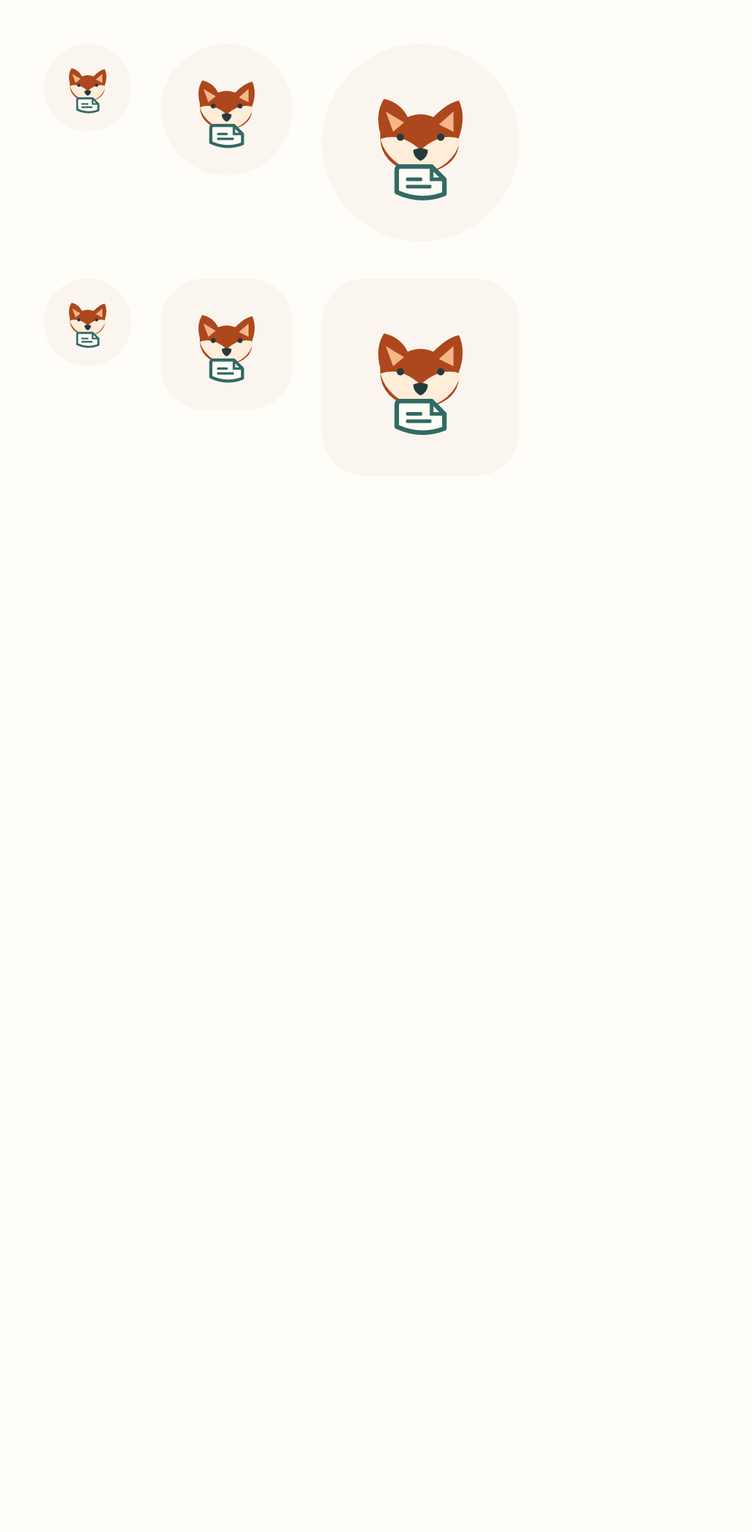
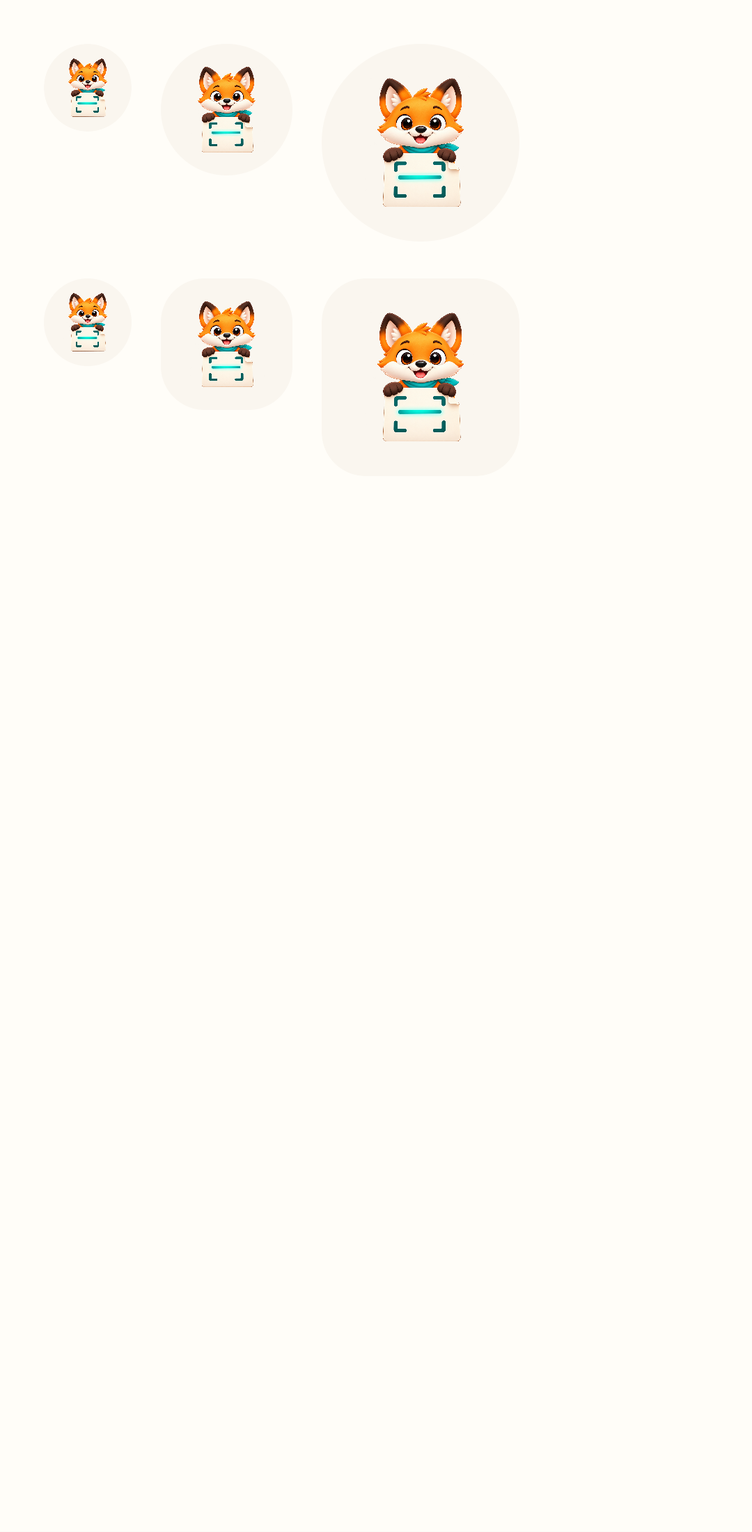
feat(onboarding): integrate fox with paper scene

diff --git a/app/src/main/java/com/soturine/replicascan/onboarding/OnboardingScreen.kt b/app/src/main/java/com/soturine/replicascan/onboarding/OnboardingScreen.kt
@@ -1,5 +1,8 @@
 package com.soturine.replicascan.onboarding
 
+import androidx.compose.foundation.Canvas
+import androidx.compose.foundation.background
+import androidx.compose.foundation.border
 import androidx.compose.foundation.layout.*
 import androidx.compose.foundation.pager.HorizontalPager
 import androidx.compose.foundation.pager.rememberPagerState
@@ -11,6 +14,13 @@ import androidx.compose.material3.*
 import androidx.compose.runtime.*
 import androidx.compose.ui.Alignment
 import androidx.compose.ui.Modifier
+import androidx.compose.ui.draw.shadow
+import androidx.compose.ui.geometry.Offset
+import androidx.compose.ui.geometry.Size
+import androidx.compose.ui.graphics.graphicsLayer
+import androidx.compose.ui.graphics.luminance
+import androidx.compose.foundation.shape.RoundedCornerShape
+import androidx.compose.ui.platform.LocalDensity
 import androidx.compose.ui.res.stringResource
 import androidx.compose.ui.semantics.heading
 import androidx.compose.ui.semantics.semantics
@@ -28,6 +38,7 @@ fun OnboardingScreen(onFinish: () -> Unit, modifier: Modifier = Modifier) {
     val scenes = listOf(ReplicaScanMascotState.Welcome, ReplicaScanMascotState.Ocr, ReplicaScanMascotState.Success)
     val pager = rememberPagerState(pageCount = { 3 })
     val scope = rememberCoroutineScope()
+    val largeText = LocalDensity.current.fontScale >= 1.6f
     Column(modifier.fillMaxSize().safeDrawingPadding().padding(20.dp), horizontalAlignment = Alignment.CenterHorizontally) {
         Row(Modifier.fillMaxWidth(), verticalAlignment = Alignment.CenterVertically) {
             if (pager.currentPage > 0) {
@@ -39,11 +50,11 @@ fun OnboardingScreen(onFinish: () -> Unit, modifier: Modifier = Modifier) {
             TextButton(onClick = onFinish) { Text(stringResource(R.string.onboarding_skip)) }
         }
         HorizontalPager(pager, modifier = Modifier.weight(1f).fillMaxWidth().testTag("onboarding-pager")) { index ->
-            Column(Modifier.fillMaxSize().verticalScroll(rememberScrollState()).padding(vertical = 24.dp),
-                horizontalAlignment = Alignment.CenterHorizontally, verticalArrangement = Arrangement.spacedBy(24.dp, Alignment.CenterVertically)) {
-                Surface(shape = MaterialTheme.shapes.extraLarge, color = MaterialTheme.colorScheme.surfaceContainer) {
-                    ReplicaScanMascot(scenes[index], size = 220.dp, modifier = Modifier.padding(16.dp), reducedMotion = pager.currentPage != index)
-                }
+            Column(Modifier.fillMaxSize().verticalScroll(rememberScrollState())
+                .padding(top = if (largeText) 12.dp else 40.dp, bottom = 16.dp),
+                horizontalAlignment = Alignment.CenterHorizontally,
+                verticalArrangement = Arrangement.spacedBy(if (largeText) 14.dp else 20.dp)) {
+                OnboardingPaperScene(scenes[index], largeText, pager.currentPage != index)
                 Text(stringResource(titles[index]), style = MaterialTheme.typography.headlineLarge, textAlign = TextAlign.Center,
                     modifier = Modifier.semantics { heading() })
                 Text(stringResource(bodies[index]), style = MaterialTheme.typography.bodyLarge, textAlign = TextAlign.Center,
@@ -59,5 +70,52 @@ fun OnboardingScreen(onFinish: () -> Unit, modifier: Modifier = Modifier) {
         }
         ReplicaScanPrimaryButton(stringResource(if (pager.currentPage == 2) R.string.onboarding_finish else R.string.onboarding_next),
             onClick = { if (pager.currentPage == 2) onFinish() else scope.launch { pager.animateScrollToPage(pager.currentPage + 1) } })
+    }
+}
+
+@Composable
+private fun OnboardingPaperScene(state: ReplicaScanMascotState, compact: Boolean, reducedMotion: Boolean) {
+    val colors = MaterialTheme.colorScheme
+    val dark = colors.background.luminance() < .5f
+    val paper = if (dark) colors.inverseSurface else colors.surface
+    val ink = if (dark) colors.inverseOnSurface else colors.onSurface
+    val size = if (compact) 170.dp else 242.dp
+    val pageShape = RoundedCornerShape(9.dp)
+
+    Box(Modifier.size(size)) {
+        Canvas(Modifier.matchParentSize()) {
+            drawCircle(colors.primaryContainer.copy(alpha = .48f),
+                radius = this.size.width * .43f,
+                center = Offset(this.size.width * .60f, this.size.height * .44f))
+            drawLine(colors.outlineVariant,
+                start = Offset(this.size.width * .10f, this.size.height * .91f),
+                end = Offset(this.size.width * .90f, this.size.height * .91f),
+                strokeWidth = 1.dp.toPx())
+        }
+        Box(
+            Modifier.align(Alignment.CenterStart).offset(x = 14.dp, y = (-9).dp)
+                .size(width = size * .54f, height = size * .70f)
+                .graphicsLayer { rotationZ = -8f }
+                .shadow(9.dp, pageShape)
+                .background(paper, pageShape)
+                .border(1.dp, ink.copy(alpha = .14f), pageShape)
+                .padding(16.dp),
+        ) {
+            Canvas(Modifier.matchParentSize()) {
+                drawRoundRect(colors.secondary.copy(alpha = .5f),
+                    topLeft = Offset(0f, this.size.height * .07f),
+                    size = Size(this.size.width * .46f, 5.dp.toPx()),
+                    cornerRadius = androidx.compose.ui.geometry.CornerRadius(3.dp.toPx()))
+                listOf(.30f, .45f, .60f, .75f).forEach { y ->
+                    drawLine(ink.copy(alpha = .18f),
+                        start = Offset(0f, this.size.height * y),
+                        end = Offset(this.size.width * .82f, this.size.height * y),
+                        strokeWidth = 2.dp.toPx())
+                }
+            }
+        }
+        ReplicaScanMascot(state, size = size * .85f,
+            modifier = Modifier.align(Alignment.BottomEnd).offset(x = 4.dp),
+            reducedMotion = reducedMotion)
     }
 }

diff --git a/docs/design/visual-recovery/icon-candidates/index.html b/docs/design/visual-recovery/icon-candidates/index.html
@@ -20,10 +20,10 @@
 </head>
 <body>
   <h1>Ícones em avaliação</h1>
-  <p>Quatro alternativas inspiradas na raposa aprovada, com exatamente duas patas dianteiras visíveis. A opção 4 segue a direção escolhida: composição entre 2 e 3 com sinal de escaneamento. O APK debug com essa opção foi instalado no emulador Android API 34 e capturado no launcher. A primeira linha da prancha 4 usa o recurso adaptativo real em 24, 48, 72 e 108 dp; as demais máscaras são prévias desenhadas no Android. A versão temática usa o vetor do app com cores simuladas. O ícone ainda aguarda aceite final e não foi publicado em release.</p>
+  <p>Quatro alternativas inspiradas na raposa aprovada, com exatamente duas patas dianteiras visíveis. O proprietário escolheu a opção 4 como candidata final: composição entre 2 e 3 com sinal de escaneamento. O APK debug com essa opção foi instalado no emulador Android API 34 e capturado no launcher. A primeira linha da prancha 4 usa o recurso adaptativo real em 24, 48, 72 e 108 dp; as demais máscaras são prévias desenhadas no Android. A versão temática usa o vetor do app com cores simuladas. O conjunto visual e a release ainda aguardam aprovação.</p>
   <p><a href="launcher-installed.png">Ver captura do ícone instalado no launcher</a> · <a href="launcher-masks.png">Ver máscaras do recurso instalado</a></p>
   <div class="grid">
-    <article><h2>4 · Raposa + documento escaneando</h2><p>Rosto da 2, folha entre 2 e 3, cantos de enquadramento e linha de leitura. A direção foi escolhida para refinamento; confira o recurso instalado em 24 dp e a versão temática.</p><a href="candidate-4-android.png"><img src="candidate-4-android.png" alt="Opção 4 instalada em tamanhos Android, máscaras e ícone temático"></a><small><a href="candidate-4.png">Arte original transparente</a></small></article>
+    <article><h2>4 · Raposa + documento escaneando</h2><p>Rosto da 2, folha entre 2 e 3, cantos de enquadramento e linha de leitura. Candidata final escolhida; confira o recurso instalado em 24 dp e a versão temática.</p><a href="candidate-4-android.png"><img src="candidate-4-android.png" alt="Opção 4 instalada em tamanhos Android, máscaras e ícone temático"></a><small><a href="candidate-4.png">Arte original transparente</a></small></article>
     <article><h2>1 · Rosto + traço terracota</h2><p>Rosto mais expressivo, papel curto e marca de leitura discreta. Melhor leitura inicial em 24 dp.</p><a href="candidate-1-android.png"><img src="candidate-1-android.png" alt="Candidata 1 em tamanhos pequenos, máscaras e ícone temático no Android"></a><small><a href="candidate-1.png">Arte original transparente</a></small></article>
     <article><h2>2 · Rosto + traço petróleo</h2><p>Composição parecida, com documento um pouco mais evidente e detalhe na cor do lenço.</p><a href="candidate-2-android.png"><img src="candidate-2-android.png" alt="Candidata 2 em tamanhos pequenos, máscaras e ícone temático no Android"></a><small><a href="candidate-2.png">Arte original transparente</a></small></article>
     <article><h2>3 · Folha protagonista</h2><p>Mais documento, mas a expressão da raposa perde força em 24 dp.</p><a href="candidate-3-android.png"><img src="candidate-3-android.png" alt="Candidata 3 em tamanhos pequenos, máscaras e ícone temático no Android"></a><small><a href="candidate-3.png">Arte original transparente</a></small></article>

diff --git a/docs/design/visual-recovery/evidence/review.html b/docs/design/visual-recovery/evidence/review.html
@@ -35,7 +35,7 @@
   <section id="export"><h2>Opções de exportação</h2><div class="pair"><figure><figcaption>Anterior</figcaption><img src="../../evidence/export.png" alt="Opções anteriores"></figure><figure><figcaption>Atual</figcaption><img src="export.png" alt="Opções atuais"></figure></div></section>
   <section id="progress"><h2>Exportação em andamento</h2><div class="pair"><figure><figcaption>Anterior</figcaption><img src="../../evidence/export-progress.png" alt="Progresso anterior"></figure><figure><figcaption>Atual</figcaption><img src="export-progress.png" alt="Progresso atual com prévia e raposa trabalhando"></figure></div></section>
   <section id="success"><h2>Exportação concluída</h2><div class="pair"><figure><figcaption>Anterior</figcaption><img src="../../evidence/export-success.png" alt="Sucesso anterior"></figure><figure><figcaption>Atual</figcaption><img src="export-success.png" alt="Sucesso atual"></figure></div></section>
-  <section id="onboarding"><h2>Introdução</h2><div class="pair"><figure><figcaption>Anterior</figcaption><img src="../../evidence/onboarding.png" alt="Introdução anterior"></figure><figure><figcaption>Atual</figcaption><img src="onboarding.png" alt="Introdução atual com raposa aprovada"></figure></div></section>
+  <section id="onboarding"><h2>Introdução</h2><div class="pair"><figure><figcaption>Anterior</figcaption><img src="../../evidence/onboarding.png" alt="Introdução anterior"></figure><figure><figcaption>Atual · escanear</figcaption><img src="onboarding.png" alt="Introdução atual com raposa e folha integradas"></figure><figure><figcaption>Atual · revisar</figcaption><img src="onboarding-two.png" alt="Segunda página da introdução"></figure><figure><figcaption>Atual · guardar</figcaption><img src="onboarding-three.png" alt="Terceira página da introdução"></figure><figure><figcaption>Atual · fonte 200%</figcaption><img src="onboarding-200.png" alt="Primeira página da introdução com fonte ampliada a 200%"></figure></div></section>
   <section id="ocr"><h2>OCR em andamento</h2><div class="pair"><figure><figcaption>Anterior</figcaption><img src="../../evidence/ocr-loading.png" alt="OCR anterior"></figure><figure><figcaption>Atual</figcaption><img src="ocr-loading.png" alt="OCR atual"></figure></div></section>
   <section id="history"><h2>Histórico</h2><div class="pair"><figure><figcaption>Anterior</figcaption><img src="../../evidence/history.png" alt="Histórico anterior"></figure><figure><figcaption>Atual</figcaption><img src="history.png" alt="Histórico atual"></figure></div></section>
   <section id="settings"><h2>Configurações</h2><div class="pair"><figure><figcaption>Anterior</figcaption><img src="../../evidence/settings.png" alt="Configurações anteriores"></figure><figure><figcaption>Atual</figcaption><img src="settings.png" alt="Configurações atuais"></figure></div></section>

diff --git a/app/src/androidTest/java/com/soturine/replicascan/RebrandVisualTest.kt b/app/src/androidTest/java/com/soturine/replicascan/RebrandVisualTest.kt
@@ -122,6 +122,8 @@ class RebrandVisualTest {
         rule.onNodeWithText(context.getString(com.soturine.replicascan.feature.settings.R.string.settings_language)).performClick()
         capture("language")
         rule.onNodeWithText(context.getString(android.R.string.cancel)).performClick()
+        rule.runOnIdle { screen = "onboarding"; large = true }
+        capture("onboarding-200")
         rule.runOnIdle { screen = "home-recent"; dark = true }
         capture("home-dark")
         rule.runOnIdle { large = true }

diff --git a/app/src/main/java/com/soturine/replicascan/splash/SplashScreen.kt b/app/src/main/java/com/soturine/replicascan/splash/SplashScreen.kt
@@ -32,7 +32,7 @@ fun SplashScreen(
             verticalArrangement = Arrangement.spacedBy(12.dp),
         ) {
             Image(
-                painter = painterResource(id = R.drawable.ic_launcher_foreground),
+                painter = painterResource(id = R.drawable.ic_launcher_fox_scan),
                 contentDescription = null,
                 modifier = Modifier.size(112.dp),
             )

diff --git a/docs/design/visual-recovery/SCREEN_REVIEW.md b/docs/design/visual-recovery/SCREEN_REVIEW.md
@@ -10,14 +10,14 @@ automaticamente todas as telas, o movimento ou a release.
 | Destino/estado | Observação e decisão | Estado |
 |---|---|---|
 | Home com recentes e vazia | Cena nativa de papel e raposa e CTA Escanear de 68 dp. Em fonte 200%, a cena sai para preservar conteúdo e ações. Espaço inferior com poucos itens continua natural ao conteúdo. | Implementado; capturas API 34 claras, escuras e 200%; aceite pendente |
-| Onboarding (3 páginas) | Saudação, leitura e sucesso agora acompanham escanear, revisar e guardar; antes, as duas primeiras páginas repetiam a pose de trabalho. A sequência ainda precisa de inspeção física de swipe/RTL. | Implementado; cinco testes Android focados passaram com a matriz visual; aceite pendente |
+| Onboarding (3 páginas) | Saudação, leitura e sucesso acompanham escanear, revisar e guardar em uma cena de folha e raposa sem cartão isolado; a composição compacta preserva título, corpo e botão com fonte 200%. A sequência ainda precisa de inspeção física de swipe/RTL. | Capturas Android das três páginas e 200%; aceite pendente |
 | Revisão, crop e filtros | Review/Crop/filtros dão luz e profundidade à mesma página nativa. O recorte mantém quatro cantos e página inteira por padrão; controles, gesto e geometria não foram movidos. | Capturados em claro; Review também em escuro/RTL/fonte 200%; QA físico pendente |
 | OCR carregando, pronto e vazio | Parágrafos ficam em uma folha selecionável, com cópia e idioma preservados. Carregamento e vazio mantêm a raposa; estados de modelo e seleção precisam inspeção com OCR real e TalkBack. | Capturado com estado injetado; fluxo real pendente |
 | Exportação: PDF/JPG/PNG | Prévia, quantidade de páginas e formato atual agora formam uma superfície única; nome, qualidade e tamanho continuam editáveis e progressivos. Estado escuro com fonte 200% exige rolagem para opções inferiores. | Implementado; capturas API 34; aceite pendente |
 | Exportação: progresso, sucesso, erro | A mesma folha real e a raposa acompanham preparo, gravação, sucesso e recuperação, com pose articulada conforme o estado. Sucesso identifica o arquivo e erro preserva opções de nova tentativa. | Capturado com estado injetado; exportação real/aceite pendentes |
 | Histórico, busca, detalhe | Uma biblioteca com só um item deixa espaço livre. Detalhe amplia a página única e mantém a grade em lotes; exportar, editar, favorito, excluir e abrir OCR preservados. Busca e ações documentais devem ser exercitadas em aparelho. | Detalhe recapturado; interação pendente |
 | Configurações, idioma, sobre | Grupos em fundo contínuo e divisórias leves tiram o aspecto de cartões repetidos. Opções e alvos de toque preservados. Validar todos os idiomas, RTL e fonte ampliada. | Configurações recapturadas; revisão linguística/QA pendentes |
-| Ícone adaptativo | A opção 4 equilibra rosto e folha com cantos e linha de escaneamento. Foreground adaptativo e vetor temático foram instalados no APK debug; capturas do launcher e de 24–108 dp estão em `icon-candidates/`. | Direção escolhida para refinamento; aceite final e teste físico pendentes |
+| Ícone adaptativo | A opção 4 equilibra rosto e folha com cantos e linha de escaneamento. Foreground adaptativo e vetor temático foram instalados no APK debug; capturas do launcher e de 24–108 dp estão em `icon-candidates/`. | Proprietário escolheu manter como candidato final; teste físico e aceite do conjunto pendentes |
 | Site | Capturas de Home e opções de exportação atualizadas. | Implementado; gate local do site passou, publicação remota pendente |
 
 As POCs Pipa/Lume informam hierarquia e ritmo, sem fornecer código ou assets de

diff --git a/docs/design/visual-recovery/VALIDATION_MATRIX.md b/docs/design/visual-recovery/VALIDATION_MATRIX.md
@@ -4,8 +4,8 @@
 |---|---|---|---|---|---|
 | Direção e master da raposa | original v0.4.0 e master editado, com seis poses derivadas | personagem consistente na prancha; master e poses aprovados em mensagens explícitas | `candidates/review.png` | proprietário | ARTE ESTÁTICA APROVADA |
 | Movimento sem pops/cortes | poses inteiras Compose; atlas 3×3 removido | teste Android verifica movimento e redução; articulação independente não implementada | `evidence/mascot-motion-v1.mp4` e dois frames Android | proprietário | PARCIAL, ACEITE PENDENTE |
-| Home/Onboarding/Export e demais telas | Home amplia a mascote e libera largura para texto; introdução usa três poses distintas; opções de exportação reúnem prévia/páginas/formato; progresso inclui página real | `MainActivityTest` e `renderScreenMatrix` passaram no emulador API 34 com fixture sintética | `evidence/review.html` compara capturas atuais e baseline; fluxo físico não foi exercitado | proprietário | PARCIAL, ACEITE PENDENTE |
-| Ícone adaptativo opção 4 | Arte com duas patas, folha intermediária e cantos/linha de escaneamento; foreground adaptativo e vetor temático no APK debug | `IconCandidateTest` e `launcherMasksAndSizes` passaram no emulador API 34; recurso real conferido em 24–108 dp | `icon-candidates/candidate-4-android.png`, `launcher-installed.png` e `launcher-masks.png` | proprietário | DIREÇÃO ESCOLHIDA, ACEITE FINAL PENDENTE |
+| Home/Onboarding/Export e demais telas | Home amplia a mascote e libera largura para texto; introdução integra três poses à folha e compacta a cena em fonte 200%; opções de exportação reúnem prévia/páginas/formato; progresso inclui página real | `MainActivityTest` (4 testes) e `renderScreenMatrix` passaram no emulador API 34 com fixture sintética; splash corrigida após o primeiro teste revelar falha de recurso | `evidence/review.html` compara capturas atuais e baseline; fluxo físico não foi exercitado | proprietário | PARCIAL, ACEITE PENDENTE |
+| Ícone adaptativo opção 4 | Arte com duas patas, folha intermediária e cantos/linha de escaneamento; foreground adaptativo e vetor temático no APK debug | `IconCandidateTest` e `launcherMasksAndSizes` passaram no emulador API 34; recurso real conferido em 24–108 dp | `icon-candidates/candidate-4-android.png`, `launcher-installed.png` e `launcher-masks.png` | proprietário | CANDIDATO FINAL ESCOLHIDO, TESTE FÍSICO PENDENTE |
 | Crop sequencial e pixels exportados | `CropScreen`, `QuadEditorOverlay`, `CropExportIntegrationTest` | API 34 passou no ciclo anterior; revalidar após mudança | `../evidence/crop.png` baseline | teste/inspeção | PRESERVAR |
 | Export parcial de histórico | `ExportViewModelTest` | 3 testes unitários passaram no ciclo anterior | `../evidence/export-library-warning.png` baseline | teste/inspeção | PRESERVAR |
 | UI 200%, RTL, landscape, compacto | Home consulta `LocalDensity` efetivo e omite arte com fonte ampliada | API 34: matriz de tela passou; não cobre interações TalkBack | `evidence/home-dark-200.png`, `export-dark-200.png` e `review-dark-200-rtl.png`; largo ainda usa baseline | QA humano | PARCIAL |

diff --git a/README.md b/README.md
@@ -27,7 +27,7 @@ Não há conta, backend, sincronização ou upload obrigatório de documentos. C
 
 ## Redesign e evidência
 
-A base da v0.4.1 traz papel marfim, tinta petróleo e terracota, revisão de telas, crop com cantos independentes e exportação com nome de arquivo, progresso e recuperação persistente. O visual do ciclo anterior foi rejeitado pelo proprietário. Um novo master e sete poses baseados na raposa da v0.4.0 receberam aceite como arte estática. A pose de atenção teve patas extras corrigidas e um rig candidato com camadas independentes foi capturado no Android. A Home integra a raposa à cena de papel e prioriza Escanear inclusive com fonte 200%; a exportação conecta prévia real e raposa em preparo, progresso, sucesso e erro. Revisão, recorte e filtros compartilham a luz e a profundidade do papel sem mudar os controles de edição; OCR reúne o texto selecionável em uma folha. Detalhe prioriza a página única e configurações usam grupos leves. Introdução, animação, ícone e conjunto das telas continuam sem aceite final.
+A base da v0.4.1 traz papel marfim, tinta petróleo e terracota, revisão de telas, crop com cantos independentes e exportação com nome de arquivo, progresso e recuperação persistente. O visual do ciclo anterior foi rejeitado pelo proprietário. Um novo master e sete poses baseados na raposa da v0.4.0 receberam aceite como arte estática. A pose de atenção teve patas extras corrigidas e um rig candidato com camadas independentes foi capturado no Android. A Home integra a raposa à cena de papel e prioriza Escanear inclusive com fonte 200%; a introdução apresenta três cenas abertas de folha e raposa. A exportação conecta prévia real e raposa em preparo, progresso, sucesso e erro. Revisão, recorte e filtros compartilham a luz e a profundidade do papel sem mudar os controles de edição; OCR reúne o texto selecionável em uma folha. Detalhe prioriza a página única e configurações usam grupos leves. A opção 4 foi escolhida como candidata final do ícone; animação e conjunto das telas continuam sem aceite final.
 
 Veja a [auditoria de recuperação visual](docs/design/visual-recovery/AUDIT.md), a [prancha das poses](docs/design/visual-recovery/candidates/review.html), o [clipe e as capturas Android atuais](docs/design/visual-recovery/evidence/README.md), os [novos ícones candidatos](docs/design/visual-recovery/icon-candidates/index.html), a [revisão por tela](docs/design/visual-recovery/SCREEN_REVIEW.md) e a [matriz de validação](docs/design/visual-recovery/VALIDATION_MATRIX.md). O material novo usa estados injetados e documento sintético; não substitui QA físico, TalkBack humano, revisão linguística nativa ou aceite final.
 

diff --git a/docs/design/visual-recovery/evidence/README.md b/docs/design/visual-recovery/evidence/README.md
@@ -7,7 +7,9 @@ sintético e estados injetados; não demonstram captura física, OCR real ou
 escrita de exportação. Preparo, gravação, sucesso, erro e aviso da biblioteca
 na exportação foram recapturados em 2026-10-13 com a mesma cena nativa da
 folha real e da raposa, variando a pose conforme o estado. As três páginas de introdução
-foram recapturadas após receber poses distintas. A Home foi recapturada em
+foram recapturadas após receber poses distintas. Agora a folha e a raposa formam
+uma cena aberta nas três páginas, sem cartão de fundo; `onboarding-200.png`
+mostra a versão compacta em fonte 200%. A Home foi recapturada em
 2026-10-13 com cena de papel e raposa, botão principal ampliado, estado vazio
 sem cartão e folha iluminada no tema escuro; `home-dark-200.png` documenta a
 composição sem ilustração em fonte 200%. As demais capturas vêm da
@@ -20,6 +22,9 @@ renderização desses estados; o gesto de recorte ainda requer QA físico.
 dos filtros e o agrupamento selecionável dos parágrafos do OCR.
 `detail.png` e `settings.png` mostram a página única ampliada e grupos de
 preferências sem cartões repetidos, também recapturados em 2026-10-13.
+`launcher-masks.png` foi atualizado após instalar o ícone candidato 4 no APK
+debug; a comparação das quatro opções e o launcher real estão em
+[`icon-candidates/`](../icon-candidates/index.html).
 
 O [clipe v2](mascot-motion-v2.mp4) reúne 64 frames renderizados no Android com o
 clock de teste em passos de 125 ms e codificados em MP4 a 8 fps. Sequência:
@@ -44,7 +49,7 @@ composição das telas e release ainda precisam de aceite expresso. O antigo
 Pontos abertos para esta revisão: a Home ainda deixa espaço inferior vazio
 quando a biblioteca é curta; a exportação ainda precisa de validação visual
 em documentos físicos e prova de gravação completa fora do fixture sintético;
-o ícone vetorial usa linguagem mais plana que a mascote; o rig candidato
+o ícone temático vetorial usa linguagem mais plana que a mascote; o rig candidato
 articula regiões das poses, mas ainda depende de máscaras sobre imagens
 completas. A inspeção manual de transições, recorte com
 câmera real, tema escuro, fonte 200%, RTL e TalkBack também permanece pendente.

diff --git a/docs/design/visual-recovery/icon-candidates/README.md b/docs/design/visual-recovery/icon-candidates/README.md
@@ -1,6 +1,6 @@
 # Ícones candidatos — checkpoint de exploração
 
-`STATUS: OPÇÃO 4 INSTALADA NO APK DEBUG, ACEITE FINAL PENDENTE` (2026-10-13).
+`STATUS: OPÇÃO 4 ESCOLHIDA COMO CANDIDATA FINAL, RELEASE PENDENTE` (2026-10-13).
 
 [Compare as quatro capturas nativas](index.html). Os PNGs originais foram gerados
 tomando o [master aprovado](../candidates/master-v1.png) como identidade da
@@ -14,7 +14,7 @@ foreground adaptativo e um vetor temático correspondente, ainda em revisão.
 | 1 | Rosto e sorriso claros em 24 dp; linha terracota associa a folha ao scanner. Melhor ponto de partida. |
 | 2 | Rosto claro, folha e traço petróleo mais presentes; compete um pouco mais com o lenço. |
 | 3 | Folha forte, mas rosto menor demais em 24 dp. Revisar proporção antes de considerar. |
-| 4 | Rosto da 2 com folha intermediária e sinais de escaneamento; instalada no APK debug e capturada em 24–108 dp, máscaras e rascunho temático. Direção escolhida; aceite final pendente. |
+| 4 | Rosto da 2 com folha intermediária e sinais de escaneamento; instalada no APK debug e capturada em 24–108 dp, máscaras e rascunho temático. O proprietário escolheu mantê-la como candidata final. |
 
 O teste [`IconCandidateTest`](../../../../app/src/androidTest/java/com/soturine/replicascan/IconCandidateTest.kt)
 renderiza 24/48/72/108 dp com `AdaptiveIconDrawable` e a máscara real do
@@ -23,4 +23,4 @@ prévias são aproximações de máscaras de outros launchers, não prova em OEM
 O ícone temático da opção 4 é o recurso `ic_launcher_monochrome.xml` do app;
 as cores na prancha são simuladas. [Launcher instalado](launcher-installed.png)
 e [máscaras do recurso](launcher-masks.png) foram capturados no emulador API 34.
-Faltam teste físico, aceite estético final e qualificação do HEAD da release.
+Faltam teste físico, aceite do conjunto visual e qualificação do HEAD da release.

diff --git a/CHANGELOG.md b/CHANGELOG.md
@@ -10,6 +10,7 @@ Este projeto segue Semantic Versioning e recomenda Conventional Commits no fluxo
 - Revisão e recorte passam a iluminar a página e dar profundidade ao papel; prévia, quatro alças, gesto e recorte de página inteira mantêm a mesma geometria.
 - Filtros compartilham o mesmo palco de papel da revisão; OCR apresenta todos os parágrafos em uma folha selecionável, preservando cópia e escolha de idioma.
 - Quatro candidatos de ícone foram renderizados no Android em 24–108 dp; a opção 4, escolhida para refinamento, combina rosto, folha e sinais de escaneamento. Ela foi instalada no APK debug com foreground adaptativo e vetor temático, capturada no launcher e segue pendente de aceite final.
+- Introdução recomposta como cena aberta de folha e raposa nas três páginas, sem cartão isolado e com ilustração menor para fonte 200%; o botão permanece visível. A splash usa a arte raster do ícone candidato, evitando a falha ao carregar o novo foreground adaptativo.
 - Detalhe amplia o documento quando há uma única página; configurações usam grupos com divisórias leves em vez de superfícies arredondadas, mantendo opções e ações.
 - Exportação recomposta em quatro cenas ligadas à prévia real do documento: preparo com opções progressivas, trabalho com progresso, sucesso com arquivo e ações, erro com recuperação. A folha mantém iluminação no tema escuro e forma pilha quando há várias páginas; callbacks e estados de gravação existentes foram preservados.
 - Atlas deformado substituído por poses completas em Compose, com movimento discreto, respeito ao lifecycle/redução de movimento e clipe de frames Android. Exportação em andamento voltou a mostrar prévia e identificação da página.
